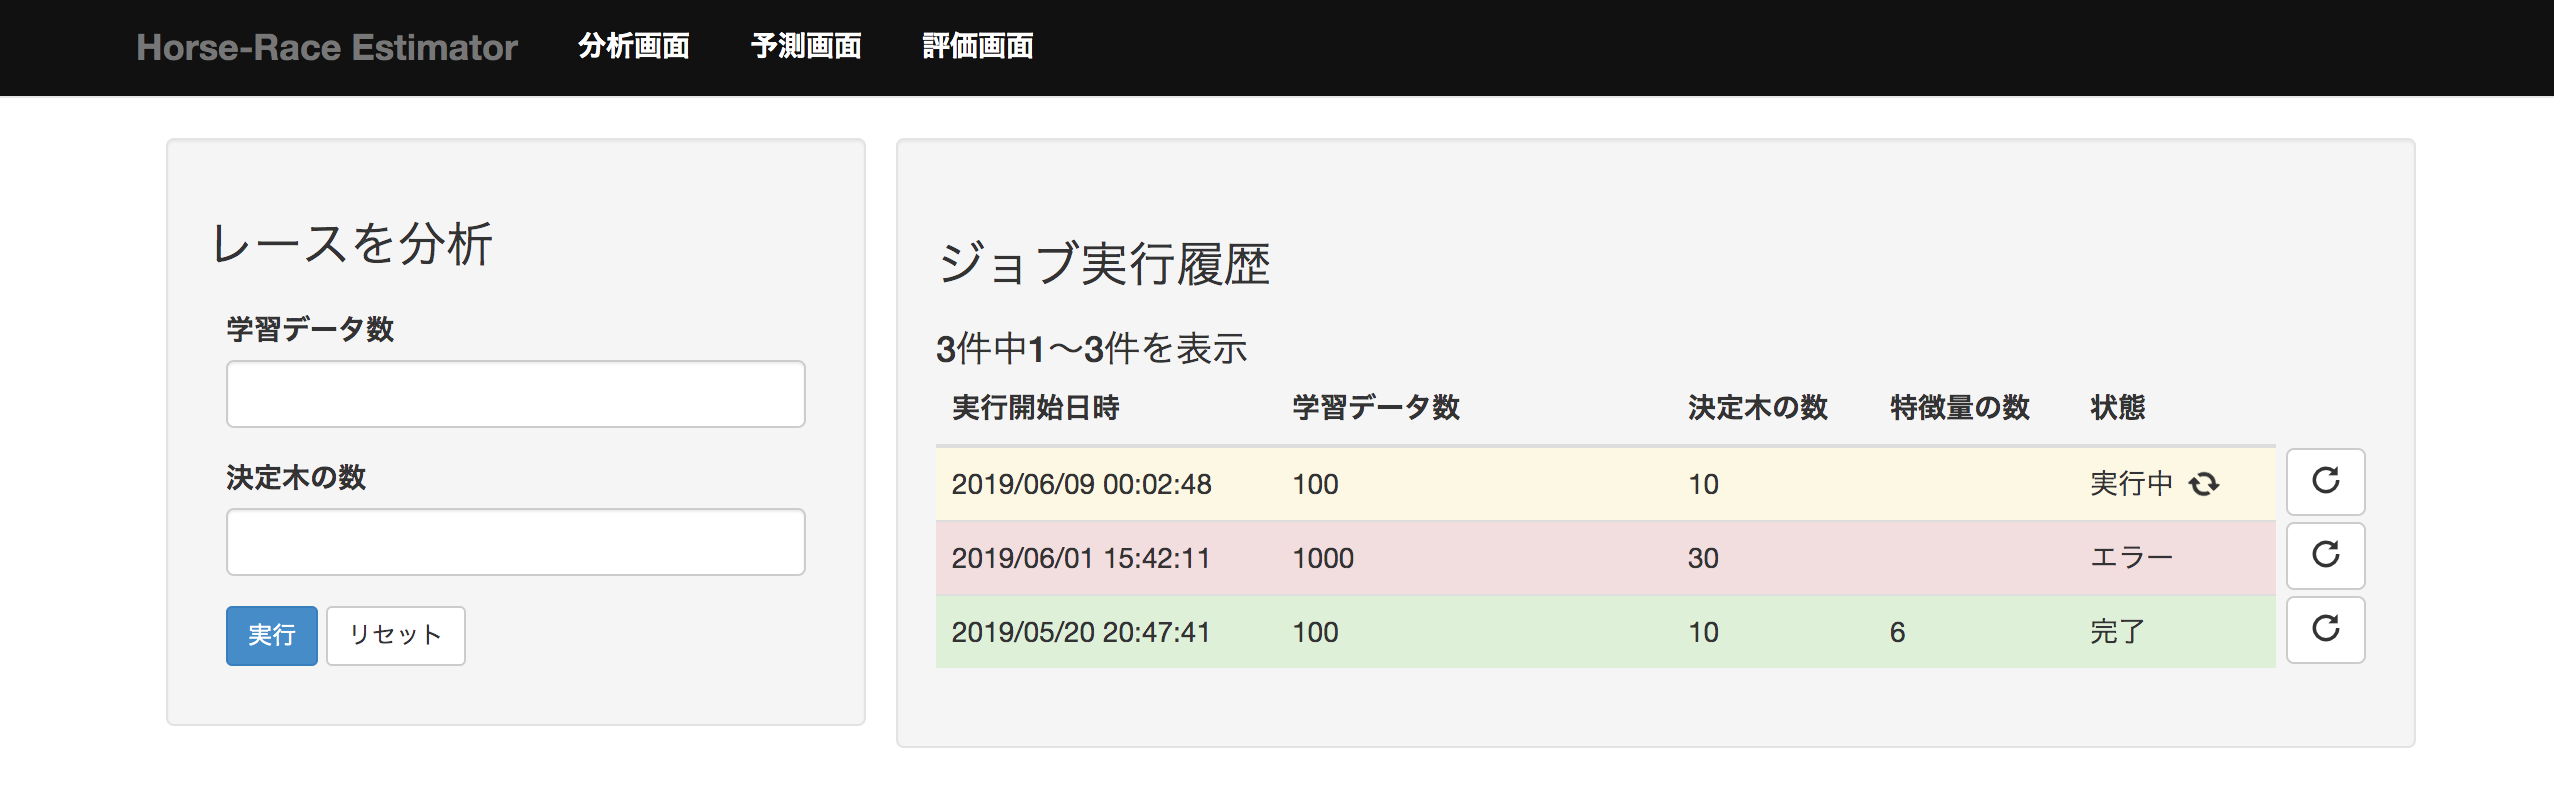
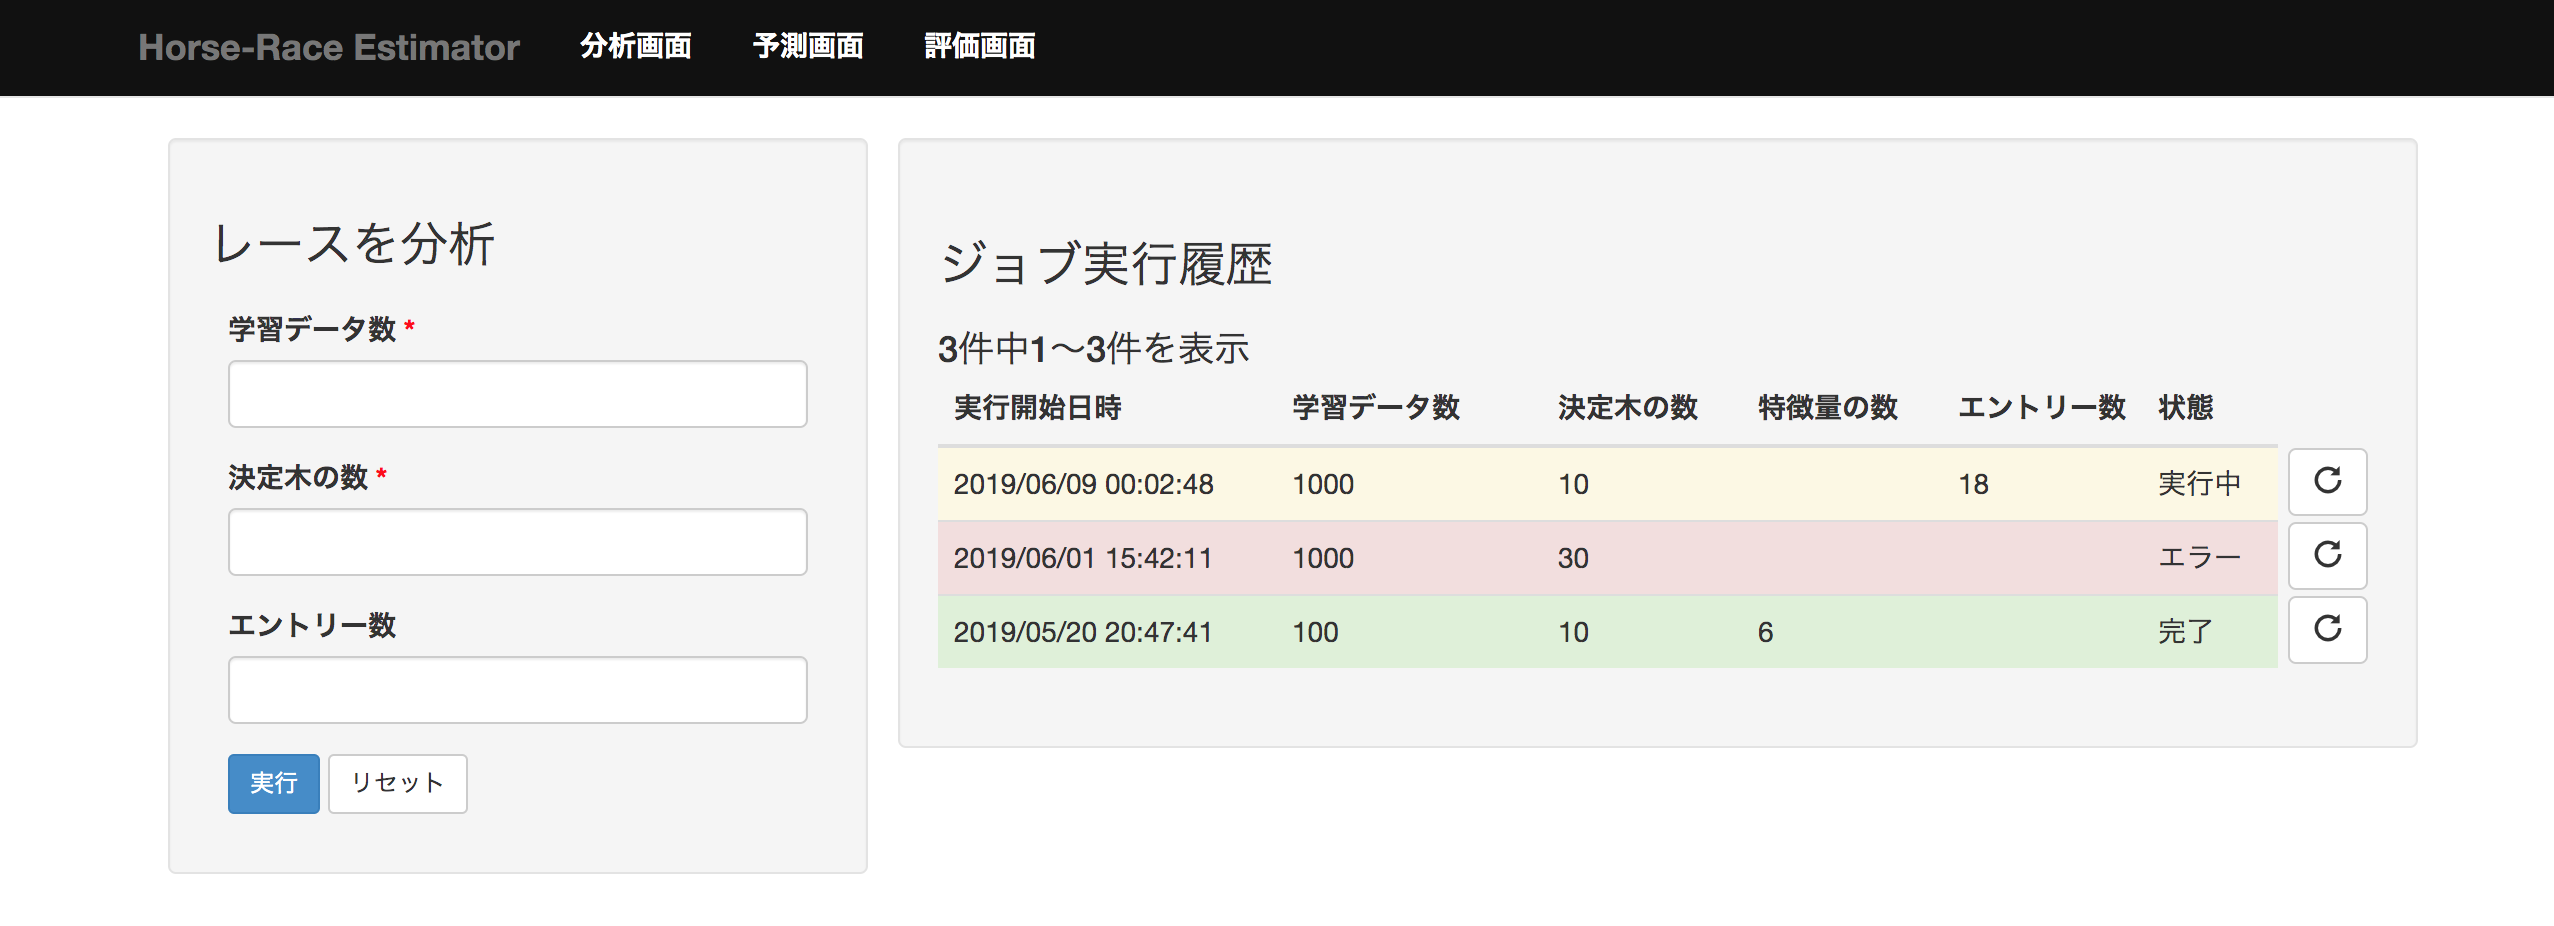
Alterf specify entry size (#225)
* update requirement spec

* add entry size to analysis resource and update image

* update class.uml

* update sequence diagrams

* update internal spec

* modify schema

* update seq-execute-analysis.uml

* update seq-execute-prediction.uml

* update seq-execute-evaluation.uml

* add autonumber

* add entry size description

* update CHANGELOG.md

* fix description

diff --git a/horse-race_estimator/alterf/internal.rst b/horse-race_estimator/alterf/internal.rst
@@ -1,4 +1,4 @@
-1;95;0c設計仕様
+設計仕様
 ========
 
 設計仕様では以下を定義する
@@ -81,15 +81,13 @@ MVCモデルを利用する
 - :ref:`alt-int-seq-show-analyses`
 - :ref:`alt-int-seq-execute-prediction`
 - :ref:`alt-int-seq-show-predictions`
-- :ref:`alt-int-seq-show-pre-result`
 - :ref:`alt-int-seq-execute-evaluation`
 - :ref:`alt-int-seq-show-evaluations`
-- :ref:`alt-int-seq-show-eva-result`
 
 .. _alt-int-seq-execute-analysis:
 
-過去のレースを分析する
-^^^^^^^^^^^^^^^^^^^^^^
+レースを分析する
+^^^^^^^^^^^^^^^^
 
 *シーケンス図*
 
@@ -117,8 +115,8 @@ MVCモデルを利用する
 
 .. _alt-int-seq-execute-prediction:
 
-レース結果を予測する
-^^^^^^^^^^^^^^^^^^^^
+レースを予測する
+^^^^^^^^^^^^^^^^
 
 *シーケンス図*
 
@@ -158,15 +156,6 @@ MVCモデルを利用する
 2. GET /predictions を実行する
 3. 予測ジョブ情報を取得する
 
-.. _alt-int-seq-show-pre-result:
-
-予測結果情報を確認する
-^^^^^^^^^^^^^^^^^^^^^^
-
-*シーケンス図*
-
-- :ref:`alt-int-seq-show-predictions` と同じ
-
 .. _alt-int-seq-execute-evaluation:
 
 モデルを評価する
@@ -197,12 +186,15 @@ MVCモデルを利用する
 10. レースIDからレース情報を検索する
 11. 評価データ情報を作成する
 
-評価データごとに12〜17を繰り返す
+評価データごとに12〜16を繰り返す
 
 12. 13を実行して素性を作成する
 13. 評価データ情報から素性を検索する
 14. 抽出した素性をYAML形式でファイルに出力する
-15. 16を実行して評価データに対する予測結果をファイルから取得する
+15. 評価データに対する予測結果をファイルから取得する
+
+レースのエントリーの数だけ16を繰り返す
+
 16. 予測結果データを作成する
 
 17. 評価結果から精度を計算する
@@ -220,19 +212,9 @@ MVCモデルを利用する
 1. 利用者が評価画面を開く
 2. GET /evaluations を実行する
 3. 評価ジョブ情報を取得する
-
-.. _alt-int-seq-show-eva-result:
-
-評価結果情報を確認する
-^^^^^^^^^^^^^^^^^^^^^^
-
-*シーケンス図*
-
-.. uml:: umls/seq-show-evaluation-result.uml
-
-1. 利用者は詳細ボタンを押下する
-2. GET /evaluations/{evaluation_id} を実行する
-3. 評価ジョブ情報と評価結果情報を取得する
+4. 利用者が詳細ボタンを押下する
+5. GET /evaluations/{evaluation_id} を実行する
+6. evaluation_idから評価結果情報を取得する
 
 .. _alt-int-schema:
 
@@ -258,8 +240,9 @@ analysesテーブル
 
    id,INTEGER,内部ID,○
    num_data,INTEGER,学習データ数,○
-   num_tree,INTEGER,決定木の数,
-   num_feature,INTEGER,特徴量の数,○
+   num_tree,INTEGER,決定木の数,○
+   num_feature,INTEGER,特徴量の数,
+   num_entry,INTEGER,エントリーの数,
    state,STRING,分析処理の状態,○
    created_at,DATETIME,分析ジョブ情報の作成日時,○
    updated_at,DATETIME,分析ジョブ情報の更新日時,○

diff --git a/horse-race_estimator/alterf/external.rst b/horse-race_estimator/alterf/external.rst
@@ -33,8 +33,10 @@
    実行開始日時,string,分析を開始した日時,- 年/月/日 時:分:秒 の形式
    学習データ数,integer,分析に利用したデータ数,- 1以上
    決定木の数,integer,生成するランダムフォレストの木の数,- 1以上
-   特徴量の数,integer,分析に利用する特徴量の数,"- 半角数字
+   特徴量の数,integer,分析に利用する特徴量の数,"- 1以上
    - システム内部で自動的に決定される"
+   エントリー数,integer,分析で使用するレースのエントリー数,"- 1以上
+   - 固定しない場合は null"
    状態,string,ジョブの状態,"- 以下のいずれか
 
      - 実行中
@@ -102,7 +104,7 @@
    :widths: 20,10,30,40
 
    レースID,string,評価したレースのID, :ref:`den-ext-res-race` 参照
-   レース名,string,評価したレース名前,
+   レース名,string,評価したレースの名前,
    URL,string,評価したレースのURL,- httpsスキームのURL
    予測結果,array[ :ref:`alt-ext-res-pre-result` ],予測結果の配列,
    正解,integer,実際に1着となった馬番,- 1以上
@@ -144,6 +146,7 @@
 
 - 画面左部にパラメーター入力フォームが表示される
 
+  - 必須入力項目には赤い*が付いている
   - 実行ボタンを押下すると分析が開始される
 
     - 入力フォームに不正な値（文字列，負数など）を入力すると以下のダイアログを表示して入力が間違っていることを通知する
@@ -180,6 +183,7 @@
   - 実行開始日時の降順でソートされている
   - 実行中のジョブは黄色，完了したジョブの行は緑色，エラーになったジョブは赤色で表示される
   - 実行中の場合は「状態」列にアイコンが表示される
+  - エントリー数を指定したジョブには「エントリー数」列に値が表示される
   - ジョブ情報の右側のボタンを押下すると，そのジョブと同じパラメーターで分析を実行する
 
 .. _alt-ext-ui-prediction:

diff --git a/horse-race_estimator/alterf/requirements.rst b/horse-race_estimator/alterf/requirements.rst
@@ -7,10 +7,8 @@
 - :ref:`alt-req-show-analyses`
 - :ref:`alt-req-execute-prediction`
 - :ref:`alt-req-show-predictions`
-- :ref:`alt-req-show-pre-result`
 - :ref:`alt-req-execute-evaluation`
 - :ref:`alt-req-show-evaluations`
-- :ref:`alt-req-show-eva-result`
 
 *ユースケース図*
 
@@ -21,8 +19,8 @@
 
 .. _alt-req-execute-analysis:
 
-過去のレースを分析する
-----------------------
+レースを分析する
+----------------
 
 - 過去のレース結果からレースの着順を予測するモデルを生成する
 
@@ -50,8 +48,8 @@
 
 .. _alt-req-execute-prediction:
 
-レース結果を予測する
---------------------
+レースを予測する
+----------------
 
 - 生成したモデルを利用してレース結果を予測する
 
@@ -73,19 +71,6 @@
 1. 利用者はシステムに予測情報の確認を要求する
 2. システムはデータベースから予測情報を取得する
 3. システムはWebブラウザに予測情報を表示する
-
-.. _alt-req-show-pre-result:
-
-予測結果情報を確認する
-----------------------
-
-- 完了した予測処理の結果を確認する
-
-*ユースケースシナリオ*
-
-1. 利用者はシステムに予測結果情報の確認を要求する
-2. システムはデータベースから予測結果情報を取得する
-3. システムはWebブラウザに予測結果情報を表示する
 
 .. _alt-req-execute-evaluation:
 
@@ -111,16 +96,3 @@
 1. 利用者はシステムに評価情報の確認を要求する
 2. システムはデータベースから評価情報を取得する
 3. システムはWebブラウザに評価情報を表示する
-
-.. _alt-req-show-eva-result:
-
-評価結果情報を確認する
-----------------------
-
-- 完了した評価処理の結果を確認する
-
-*ユースケースシナリオ*
-
-1. 利用者はシステムに評価結果情報の確認を要求する
-2. システムはデータベースから評価結果情報を取得する
-3. システムはWebブラウザに評価結果情報を表示する

diff --git a/CHANGELOG.md b/CHANGELOG.md
@@ -1,3 +1,6 @@
+# 2019/12/01
+- [Alterf] update version to 4.10.0
+
 # 2019/11/30
 - [Alterf] update version to 4.9.0
 
